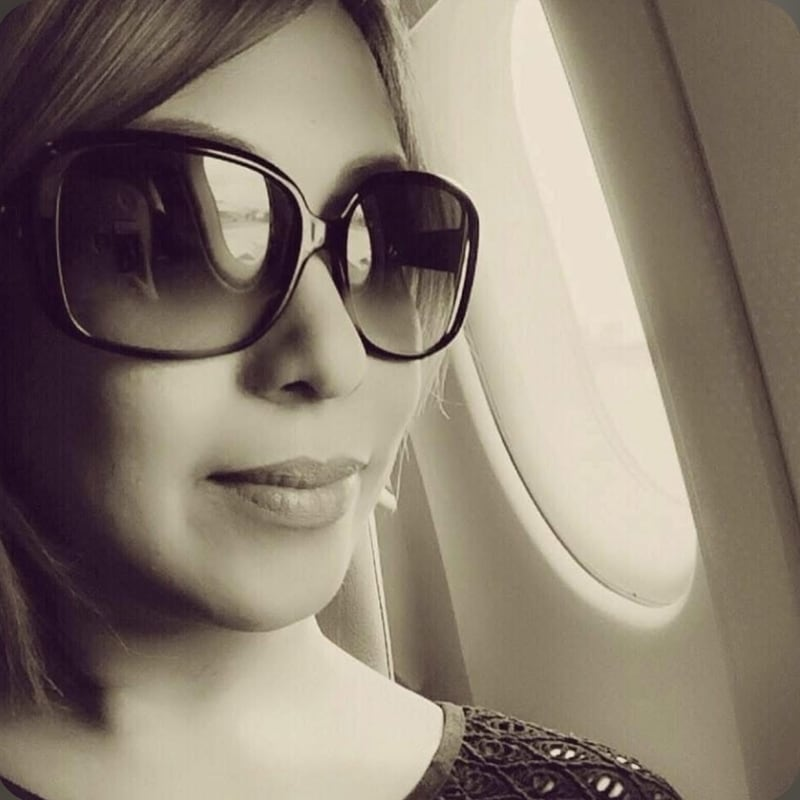
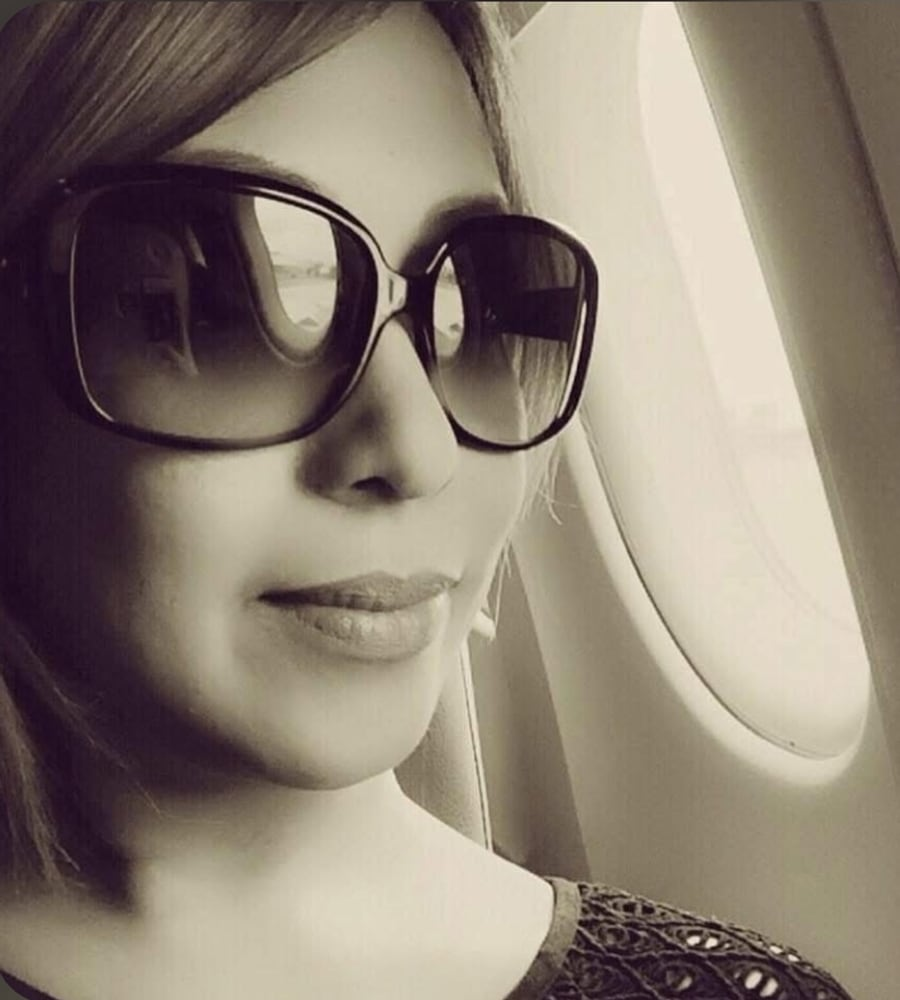
Hero: her portrait now matches the pen card exactly
Shane: the photo should be the same size as the pens.

Re-cut the portrait from the original at 9:10 -- the same shape as the pen shot --
and gave both cards the same max-width, so they read as a matched pair either side
of the headline instead of one square and one rectangle.

Trimmed from the RIGHT (the window side) rather than centre-cropping: her face sits
left of centre in the frame, so a plain centre crop clipped her hair.

diff --git a/index.html b/index.html
@@ -157,8 +157,10 @@
   .hero-shot{position:relative;border-radius:16px;overflow:hidden;
     border:1px solid rgba(200,162,76,.34);box-shadow:0 24px 60px rgba(0,0,0,.55);
     opacity:0;animation:rise 1.1s var(--ease) .55s forwards}
+  /* Both cards are the same 9:10 shape and the same max-width, so they read as a
+     matched pair either side of the headline. */
   .hero-shot.pens{max-width:min(100%,40vh);justify-self:end}
-  .hero-shot.portrait{max-width:min(100%,36vh);justify-self:start;margin-bottom:8vh}
+  .hero-shot.portrait{max-width:min(100%,40vh);justify-self:start}
   .hero-shot img{display:block;width:100%;height:auto}
   .hero-shot .cap{position:absolute;left:0;right:0;bottom:0;padding:16px 14px 12px;
     font-size:.56rem;letter-spacing:.26em;text-transform:uppercase;color:var(--gold);
@@ -518,7 +520,7 @@
       </div>
 
       <figure class="hero-shot portrait">
-        <img src="madz-portrait.jpg" width="800" height="800" loading="eager" decoding="async"
+        <img src="madz-portrait.jpg" width="900" height="1000" loading="eager" decoding="async"
              alt="Madz Gerardo, Lead Travel Advisor at Madz Travel, photographed by an aircraft window">
         <figcaption class="cap">Madz · Lead Travel Advisor</figcaption>
       </figure>
